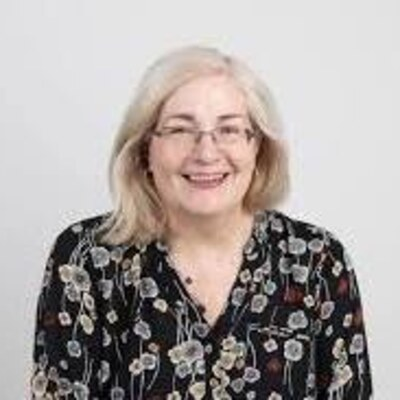
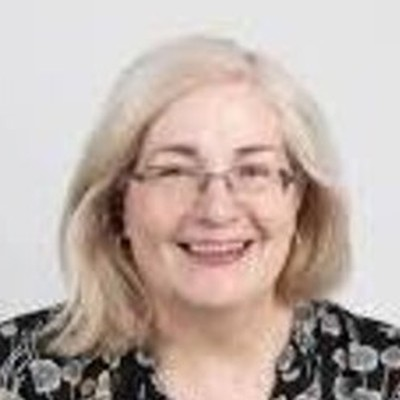
Add files via upload

diff --git a/services.html b/services.html
@@ -13,7 +13,7 @@ nav: resources
 
     <div class="ressection">
       <h2>Now</h2>
-      <p class="intro">Available to research teams at NUS Medicine and NUHS from the Lab's establishment, within the capacity of its founding staff.</p>
+      <p class="intro">Available to research teams at NUS Medicine and NUHS now, within the capacity of the Lab's two directors while recruitment is underway.</p>
       <div class="reslist">
         <div class="rescard">
           <p class="rtype">Advice</p>
@@ -23,7 +23,7 @@ nav: resources
         <div class="rescard">
           <p class="rtype">Review</p>
           <h3>Review of participant-facing materials</h3>
-          <p>Comment on consent forms, information sheets, and recruitment materials, drawing on the Lab's own staff and, where capacity allows, on public input.</p>
+          <p>Comment on consent forms, information sheets, and recruitment materials, within the capacity of the Lab's founding directors until core staff are in post.</p>
         </div>
         <div class="rescard">
           <p class="rtype">Mapping</p>
@@ -33,19 +33,19 @@ nav: resources
         <div class="rescard">
           <p class="rtype">Public input</p>
           <h3>Limited access to HOPS</h3>
-          <p>A small number of public attitude studies each year through the Health Opinion Panel Singapore, subject to panel capacity and to the commitments made to its members.</p>
+          <p>A small number of public attitude studies each year through the <a href="{{ '/hops/' | relative_url }}">Health Opinion Panel Singapore</a>, subject to panel capacity and to the number of studies panel members take part in each year.</p>
         </div>
       </div>
     </div>
 
     <div class="ressection">
-      <h2>By the end of the first year</h2>
-      <p class="intro">Contingent on the two core posts being filled early in the year.</p>
+      <h2>By the end of 2027</h2>
+      <p class="intro">Contingent on the two core posts being filled early in 2027.</p>
       <div class="reslist">
         <div class="rescard">
           <p class="rtype">Mapping</p>
           <h3>A current map of involvement across NUS Medicine and NUHS</h3>
-          <p>Who convenes which panels, what they cover, who decides on access, and what capacity each has. This is the precondition for brokering access rather than improvising it.</p>
+          <p>Who convenes which panels, what they cover, who decides on access, and what capacity each has.</p>
         </div>
         <div class="rescard">
           <p class="rtype">Guidance</p>
@@ -66,7 +66,7 @@ nav: resources
     </div>
 
     <div class="ressection">
-      <h2>By the end of the second year</h2>
+      <h2>By the end of 2028</h2>
       <p class="intro">Contingent on the training post and on the access agreements being in place.</p>
       <div class="reslist">
         <div class="rescard">
@@ -87,9 +87,15 @@ nav: resources
         <div class="rescard">
           <p class="rtype">Evaluation</p>
           <h3>Evaluation of involvement and its outcomes</h3>
-          <p>Documentation and evaluation of what involvement changed in the studies it touched, feeding the Lab's research programme.</p>
+          <p>Documentation and evaluation of what involvement changed in the studies that used it, feeding the Lab's research programme.</p>
         </div>
       </div>
+    </div>
+
+    <div class="ressection">
+      <h2>2029 and beyond</h2>
+      <p class="intro">By the end of the second year PACT should no longer be the only route to involvement across NUS Medicine and NUHS. If the training works, involvement becomes something research teams do as a matter of course, to a standard they were taught, with panels and partners they know how to reach. The Lab's role then shifts from providing involvement to setting standards, holding the agreements that make access possible, training each new cohort, and studying what involvement achieves and where it does not.</p>
+      <p class="intro">The wider ambition is a research culture in which patients, caregivers, and members of the public are not consulted at the end but present from the start, and in which the question of what research is worth doing is answered partly by the people it is done for. That takes longer than two years and more than one lab, which is why the training, the standards, and the evidence base matter more than the services.</p>
     </div>
 
     <div class="ressection">

diff --git a/_includes/section-services.html b/_includes/section-services.html
@@ -1,10 +1,17 @@
 <section id="services">
   <div class="wrap">
-    <div class="sechead">
+    <div class="whatgrid">
+      <div class="sechead">
       <p class="eyebrow">What we do</p>
       <h2>Structured support for involving patients and the public in research</h2>
-      <p>PACT is the shared platform for PPIE across NUS Medicine and NUHS. It connects research teams with patients, caregivers, and members of the public, and helps teams use that involvement to inform research design and to translate primary findings into justifiable policy and translation options. Its services are available to research teams across both institutions. Involvement is reciprocal: PACT brings patient and public input into research, and works to make research and its findings accessible and useful to the people who take part.</p>
+      <p>PACT is the shared platform for PPIE across NUS Medicine and NUHS. It connects research teams with patients, caregivers, and members of the public, and helps teams use that involvement to inform research design and to translate primary findings into justifiable policy and translation options. Its services are available to research teams across both institutions. Involvement is reciprocal: PACT brings patient and public input into research, and works to make research and its findings accessible and useful to the people who take part. PACT is a lab rather than a support office: alongside its services it develops and tests methods for involvement, evaluates what they achieve, and trains others to use them.</p>
+      </div>
+      <aside class="practicepanel">
+        <p class="ppLabel">PACT&rsquo;s work in practice</p>
+        <p>In July 2026, PACT convened former participants of Project RESET through the Health Opinion Panel Singapore to co-design a large-scale hypertension study, working with the research team to shape trial design before submission. The consultation produced detailed, actionable recommendations on study design, monitoring, and participant support.</p>
+      </aside>
     </div>
+
     <figure class="gradedfig">
       <svg viewBox="0 0 900 150" width="100%" role="img" aria-label="Involvement ranges from lighter-touch review to deeper partnership">
         <g font-family="'Public Sans',sans-serif">
@@ -44,11 +51,6 @@
         <p>Guidelines, standard operating procedures, and training for conducting PPIE responsibly and consistently, together with documentation and evaluation of engagement and its outcomes.</p>
       </article>
     </div>
-    <aside class="whybox">
-      <p class="whyhead">Why involve patients and the public?</p>
-      <p>Involvement makes research better. People who live with a condition, or who would be asked to join a study, can see what researchers often cannot: what taking part actually costs, whether an outcome measure captures anything that matters to patients, whether the participant materials make sense. There is also a reason of a different kind. People have a claim to a say in research that concerns them, since they carry its burdens and it is conducted partly for their benefit. Recognising these points, funders and governing bodies increasingly require patient and public involvement.</p>
-    </aside>
-    <p class="practice-note"><strong>PACT&rsquo;s work in practice.</strong> In 2026, PACT convened former participants of Project RESET through the Health Opinion Panel Singapore to co-design a large-scale hypertension study, working with the research team to shape trial design before submission. The consultation produced detailed, actionable recommendations on study design, monitoring, and participant support.</p>
 {% include sub-research.html %}
 {% include sub-hops.html %}
   </div>

diff --git a/assets/css/style.css b/assets/css/style.css
@@ -52,8 +52,8 @@
   }
 
   /* Hero */
-  header.hero{padding:84px 0 64px;border-bottom:1px solid var(--line)}
-  .hero .wrap{display:grid;grid-template-columns:1.15fr .85fr;gap:56px;align-items:center}
+  header.hero{padding:72px 0 60px;border-bottom:1px solid var(--line)}
+  .hero .wrap{display:grid;grid-template-columns:1.25fr .75fr;gap:56px;align-items:start}
   @media(max-width:860px){.hero .wrap{grid-template-columns:1fr}}
   .hero h1{font-size:clamp(34px,4.6vw,52px);margin-bottom:8px}
   .hero .expansion{font-size:15px;color:var(--ink-soft);letter-spacing:.02em;margin-bottom:24px}
@@ -65,10 +65,11 @@
   }
 
   /* Hub diagram */
-  .hub-fig{display:flex;flex-direction:column;align-items:center;gap:10px}
+  .hub-fig{display:flex;flex-direction:column;align-items:center;gap:10px;margin-top:18px}
   .hub-fig figcaption{font-size:13px;color:var(--ink-soft);text-align:center;max-width:30em}
   .hub-svg .spoke-label{font-family:'Public Sans',sans-serif;font-size:11.5px;font-weight:600;fill:var(--ink-soft)}
   .hub-svg .hub-label{font-family:'Spectral',serif;font-size:20px;font-weight:600;fill:#fff}
+  .hub-svg .hub-label tspan{font-size:18px}
   .hub-svg line{stroke:var(--line);stroke-width:2}
   .hub-svg .node{fill:var(--white);stroke:var(--navy);stroke-width:1.5}
   @media(prefers-reduced-motion:no-preference){
@@ -173,7 +174,7 @@
   .logos{display:flex;gap:22px;align-items:center;flex-wrap:wrap}
   .logos img{height:44px;width:auto;background:#fff;padding:2px 4px}
 
-  .flowfig, .gradedfig{margin:34px 0 4px;max-width:100%}
+  .flowfig, .gradedfig{margin:14px 0 4px;max-width:100%}
   .flowfig figcaption{font-size:13px;color:var(--ink-soft);text-align:center;margin-top:8px}
   .gradedfig{margin-bottom:8px}
 
@@ -302,3 +303,37 @@
     color:var(--ink-soft);margin:20px 0 10px;
   }
   .pactnote{margin:0 0 22px}
+
+  /* Why-involve block inside the opening column */
+  .herowhy{margin-top:30px;padding-top:24px;border-top:1px solid var(--line)}
+  .herowhy .whyhead{
+    font-family:'Spectral',serif;font-size:21px;font-weight:600;
+    color:var(--navy-deep);margin-bottom:10px;
+  }
+  .herowhy p{font-size:15.5px;line-height:1.65;color:var(--ink-soft);max-width:38em}
+  .herowhy .visionmore{margin-top:18px}
+
+  /* What we do: intro beside a practice example */
+  .whatgrid{display:grid;grid-template-columns:1.4fr .6fr;gap:52px;align-items:start;margin-bottom:10px}
+  @media(max-width:900px){.whatgrid{grid-template-columns:1fr;gap:28px}}
+  .whatgrid .sechead{margin-bottom:0;max-width:none}
+  .practicepanel{background:var(--tint);border-left:4px solid var(--orange);padding:20px 22px}
+  .practicepanel .ppLabel{
+    font-size:11.5px;font-weight:700;letter-spacing:.11em;text-transform:uppercase;
+    color:var(--orange);margin-bottom:9px;
+  }
+  .practicepanel p{font-size:14px;line-height:1.6;color:var(--ink-soft)}
+
+  /* Subsections: shaded panels with larger headings */
+  .subsec{
+    margin-top:36px;padding:28px 32px 26px;border-top:none;max-width:none;
+    background:var(--tint);border-left:4px solid var(--navy);
+  }
+  .subsec .subsechead{font-size:26px;margin-bottom:10px}
+  .subsec .subsecintro{max-width:50em;margin-bottom:20px}
+  .subsec .res{max-width:none}
+  .subsec .govmore{margin-top:24px}
+  .enqform a.btn{text-decoration:none;display:inline-block}
+  .enqfallback{margin-top:16px}
+  .enqfallback summary{font-size:13.5px;font-weight:600;color:var(--navy);cursor:pointer}
+  .enqfallback textarea{margin-top:10px;font-size:13.5px;line-height:1.5}

diff --git a/_includes/enquiry-form.html b/_includes/enquiry-form.html
@@ -49,30 +49,44 @@
   <label class="enqlabel" for="q_detail">Briefly, what is the study or the request about</label>
   <textarea id="q_detail" class="enqfield" rows="4"></textarea>
 
-  <button type="button" class="btn" id="enqsend">Open email with these answers</button>
-  <p class="enqnote">This opens your own email programme. If it does not, write to <a href="mailto:yuxinliu@nus.edu.sg">yuxinliu@nus.edu.sg</a> directly.</p>
+  <a class="btn" id="enqsend" href="mailto:yuxinliu@nus.edu.sg">Open email with these answers</a>
+  <p class="enqnote">This opens your own email programme. If it does not, write to <a href="mailto:yuxinliu@nus.edu.sg">yuxinliu@nus.edu.sg</a> directly, with the same information.</p>
+
+  <details class="enqfallback">
+    <summary>Or copy the message instead</summary>
+    <textarea id="enqpreview" class="enqfield" rows="10" readonly></textarea>
+  </details>
 </div>
 
 <script>
 (function(){
-  var b = document.getElementById('enqsend');
-  if(!b) return;
-  b.addEventListener('click', function(){
-    function v(id){ var e=document.getElementById(id); return e && e.value ? e.value.trim() : ''; }
-    var rows = [
-      ['Who is getting in touch', v('q_who')],
-      ['Name', v('q_name')],
-      ['Department, institution, or group', v('q_affil')],
-      ['Stage of the work', v('q_stage')],
-      ['What they are looking for', v('q_need')],
-      ['Fixed dates', v('q_deadline')]
-    ];
+  var link = document.getElementById('enqsend');
+  var out  = document.getElementById('enqpreview');
+  if(!link) return;
+  var ids = ['q_who','q_name','q_affil','q_stage','q_need','q_deadline','q_detail'];
+  var labels = {
+    q_who:'Who is getting in touch',
+    q_name:'Name',
+    q_affil:'Department, institution, or group',
+    q_stage:'Stage of the work',
+    q_need:'What they are looking for',
+    q_deadline:'Fixed dates'
+  };
+  function v(id){ var e=document.getElementById(id); return e && e.value ? e.value.trim() : ''; }
+  function compose(){
     var body = 'PACT Lab enquiry\n\n';
-    rows.forEach(function(r){ if(r[1]) body += r[0] + ': ' + r[1] + '\n'; });
-    var d = v('q_detail');
-    if(d) body += '\nAbout the study or request:\n' + d + '\n';
-    var subj = 'PACT Lab enquiry' + (v('q_need') ? ' — ' + v('q_need') : '');
-    window.location.href = 'mailto:yuxinliu@nus.edu.sg?subject=' + encodeURIComponent(subj) + '&body=' + encodeURIComponent(body);
+    ['q_who','q_name','q_affil','q_stage','q_need','q_deadline'].forEach(function(id){
+      if(v(id)) body += labels[id] + ': ' + v(id) + '\n';
+    });
+    if(v('q_detail')) body += '\nAbout the study or request:\n' + v('q_detail') + '\n';
+    var subj = 'PACT Lab enquiry' + (v('q_need') ? ' \u2014 ' + v('q_need') : '');
+    link.setAttribute('href','mailto:yuxinliu@nus.edu.sg?subject=' + encodeURIComponent(subj) + '&body=' + encodeURIComponent(body));
+    if(out) out.value = 'To: yuxinliu@nus.edu.sg\nSubject: ' + subj + '\n\n' + body;
+  }
+  ids.forEach(function(id){
+    var e = document.getElementById(id);
+    if(e){ e.addEventListener('input', compose); e.addEventListener('change', compose); }
   });
+  compose();
 })();
 </script>

diff --git a/_includes/hero.html b/_includes/hero.html
@@ -5,6 +5,12 @@
       <p class="expansion"><b>P</b>atient and public <b>A</b>ction, <b>C</b>ollaboration, and <b>T</b>rust in Research</p>
       <p class="lede">PACT Lab is shared infrastructure for patient and public involvement and engagement (PPIE) in research across NUS Medicine and the National University Health System. It gives research teams a single, structured route to patient and public input into the design, conduct, and governance of medical and population health research.</p>
       <p class="status">Established in 2026 with seed funding from NUS Medicine. Recruitment for core staff is underway.</p>
+
+      <div class="herowhy">
+        <p class="whyhead">Why involve patients and the public?</p>
+        <p>Involvement makes research better. People who live with a condition, or who would be asked to join a study, can see what researchers often cannot: what taking part actually costs, whether an outcome measure captures anything that matters to patients, whether the participant materials make sense. There is also a reason of a different kind. People have a claim to a say in research that concerns them, since they carry its burdens and it is conducted partly for their benefit. Recognising these points, funders and governing bodies increasingly require patient and public involvement.</p>
+        <p class="visionmore"><a class="btn-quiet" href="{{ '/resources/' | relative_url }}">More on this, and how we work &rarr;</a></p>
+      </div>
     </div>
     <figure class="hub-fig">
       <svg class="hub-svg" viewBox="0 0 360 350" width="100%" role="img" aria-label="Diagram of the PACT Lab hub connected to research programmes, clinician scientists, clinical and service teams, patient and caregiver panels, community partners, and education and training partners">
@@ -16,7 +22,7 @@
         <line x1="180" y1="170" x2="66" y2="104"/>
         <circle class="pulse" cx="180" cy="170" r="78" fill="#EF7C00" opacity=".3"/>
         <circle cx="180" cy="170" r="62" fill="#003D7C"/>
-        <text class="hub-label" x="180" y="176" text-anchor="middle">PACT</text>
+        <text class="hub-label" x="180" y="166" text-anchor="middle">PACT<tspan x="180" dy="22">Lab</tspan></text>
         <circle class="node" cx="180" cy="38" r="7"/>
         <text class="spoke-label" x="180" y="20" text-anchor="middle">Research programmes</text>
         <circle class="node" cx="294" cy="104" r="7"/>
@@ -32,5 +38,6 @@
       </svg>
       <figcaption>PACT operates as a hub: research programmes and service teams draw on shared panels, expertise, and procedures, and strengthen them in turn.</figcaption>
     </figure>
+
   </div>
 </header>

diff --git a/_includes/section-publications.html b/_includes/section-publications.html
@@ -17,7 +17,7 @@
 
     <div class="ressection" id="foundations">
       <h2>Foundations and justification</h2>
-      <p class="intro">Why patients and the public should be involved in research, and on what grounds. Work on the ethics, justification, and governance of involvement, including the question of what follows when the usual instrumental arguments do not apply.</p>
+      <p class="intro">Why patients and the public should be involved in research, and on what grounds. Work on the ethics, justification, and governance of involvement and engagement.</p>
       <ol class="publist">
         {%- for p in foundations %}{% include publication.html p=p %}{% endfor %}
       </ol>
@@ -25,7 +25,7 @@
 
     <div class="ressection" id="methods">
       <h2>Methods</h2>
-      <p class="intro">How involvement is done, and how it is studied. Includes Collective Reflective Equilibrium in Practice (CREP), the framework PACT uses to move from public and patient input to justifiable policy and translation recommendations, and the empirical and experimental methods the Lab draws on.</p>
+      <p class="intro">Methodological insights into PPIE. Includes Collective Reflective Equilibrium in Practice (CREP), the framework PACT uses to move from public and patient input to justifiable policy and translation recommendations, and the empirical and experimental methods the Lab draws on.</p>
       <ol class="publist">
         {%- for p in methods %}{% include publication.html p=p %}{% endfor %}
       </ol>
@@ -33,7 +33,7 @@
 
     <div class="ressection" id="studies">
       <h2>Studies and applications</h2>
-      <p class="intro">Involvement in practice: surveys of public attitudes, qualitative and deliberative work with patients and the public, and co-design of research and services.</p>
+      <p class="intro">Involvement and engagement in practice: surveys of public attitudes, qualitative and deliberative work with patients and the public, and co-design of research and services.</p>
       <ol class="publist">
         {%- for p in studies %}{% include publication.html p=p %}{% endfor %}
       </ol>

diff --git a/hops.html b/hops.html
@@ -12,7 +12,7 @@ nav: resources
   <div class="wrap">
     <div class="ressection">
       <h2>What HOPS is for</h2>
-      <p class="intro">HOPS serves questions that do not require experience of a particular condition: study design, participant-facing materials, consent and recruitment approaches, and public attitudes to health research, technologies, and policy. Panel members are recruited to be representative of the Singapore population by age, sex, ethnicity, and other demographic characteristics, and are paid for their time.</p>
+      <p class="intro">HOPS is suited to questions that do not require experience of a particular condition: study design, participant-facing materials, consent and recruitment approaches, and public attitudes to health research, technologies, and policy. Panel members are recruited to be representative of the Singapore population by age, sex, ethnicity, and other demographic characteristics, and are paid for their time.</p>
       <p class="intro">For questions that do require experience of a particular condition, HOPS is not the right route. PACT brokers access to condition-specific patient groups instead, through clinical teams, patient support organisations, and existing patient panels across NUS Medicine and NUHS.</p>
     </div>
 

diff --git a/crep.html b/crep.html
@@ -84,6 +84,10 @@ nav: resources
           <span class="pubauthors"><span class="pactauthor">Savulescu, J.</span>, Gyngell, C., &amp; Kahane, G.</span> (2021). <a href="https://doi.org/10.1111/bioe.12869">Collective reflective equilibrium in practice (CREP) and controversial novel technologies</a>. <span class="pubvenue">Bioethics</span>, 35(7), 652–663. <span class="pubnote">Open access</span>
           <br><a class="doilink" href="https://doi.org/10.1111/bioe.12869">https://doi.org/10.1111/bioe.12869</a>
         </li>
+        <li>
+          <span class="pubauthors"><span class="pactauthor">Savulescu, J.</span></span> (2025). <a href="https://doi.org/10.1017/S0963180124000719">Collective reflective equilibrium, algorithmic bioethics and complex ethics</a>. <span class="pubvenue">Cambridge Quarterly of Healthcare Ethics</span>, 34(2), 204–219.
+          <br><a class="doilink" href="https://doi.org/10.1017/S0963180124000719">https://doi.org/10.1017/S0963180124000719</a>
+        </li>
       </ol>
       <p class="intro">Further methodological work is listed under <a href="{{ '/publications/' | relative_url }}#methods">Methods</a> on the publications page.</p>
     </div>

diff --git a/publications.html b/publications.html
@@ -6,6 +6,7 @@ permalink: /publications/
 nav: publications
 ---
 
-{% include pagehead.html eyebrow="Publications" heading="Selected publications" intro="A curated reading list on patient and public involvement in research: work that informs how PACT operates, by the Lab, its collaborators, and others. For publications arising from the Lab's own funded work, see PACT Lab outputs." %}
+{% capture pubintro %}A curated reading list on patient and public involvement in research: work that informs how PACT operates, by the Lab, its collaborators, and others. For publications arising from the Lab's own funded work, see <a href="{{ '/publications/outputs/' | relative_url }}">PACT Lab outputs</a>.{% endcapture %}
+{% include pagehead.html eyebrow="Publications" heading="Selected publications" intro=pubintro %}
 
 {% include section-publications.html %}

diff --git a/outputs.html b/outputs.html
@@ -6,7 +6,8 @@ permalink: /publications/outputs/
 nav: publications
 ---
 
-{% include pagehead.html eyebrow="Outputs" heading="PACT Lab outputs" intro="Publications arising from the Lab's own funded work, listed by year and alphabetically by author within each year. For a curated reading list on patient and public involvement, including work by others, see Selected publications." %}
+{% capture outintro %}Publications arising from the Lab's own funded work, listed by year and alphabetically by author within each year. For a curated reading list on patient and public involvement, including work by others, see <a href="{{ '/publications/' | relative_url }}">Selected publications</a>.{% endcapture %}
+{% include pagehead.html eyebrow="Outputs" heading="PACT Lab outputs" intro=outintro %}
 
 <section>
   <div class="wrap">

diff --git a/_includes/sub-research.html b/_includes/sub-research.html
@@ -19,4 +19,5 @@
         <p>What members of the public think about health research and how those views can be studied responsibly, including surveys, rapid consultation methods, and approaches to studying perspectives at scale.</p>
       </div>
     </div>
+      <p class="govmore"><a class="btn-quiet" href="{{ '/publications/' | relative_url }}">See our publications &rarr;</a></p>
     </div>
